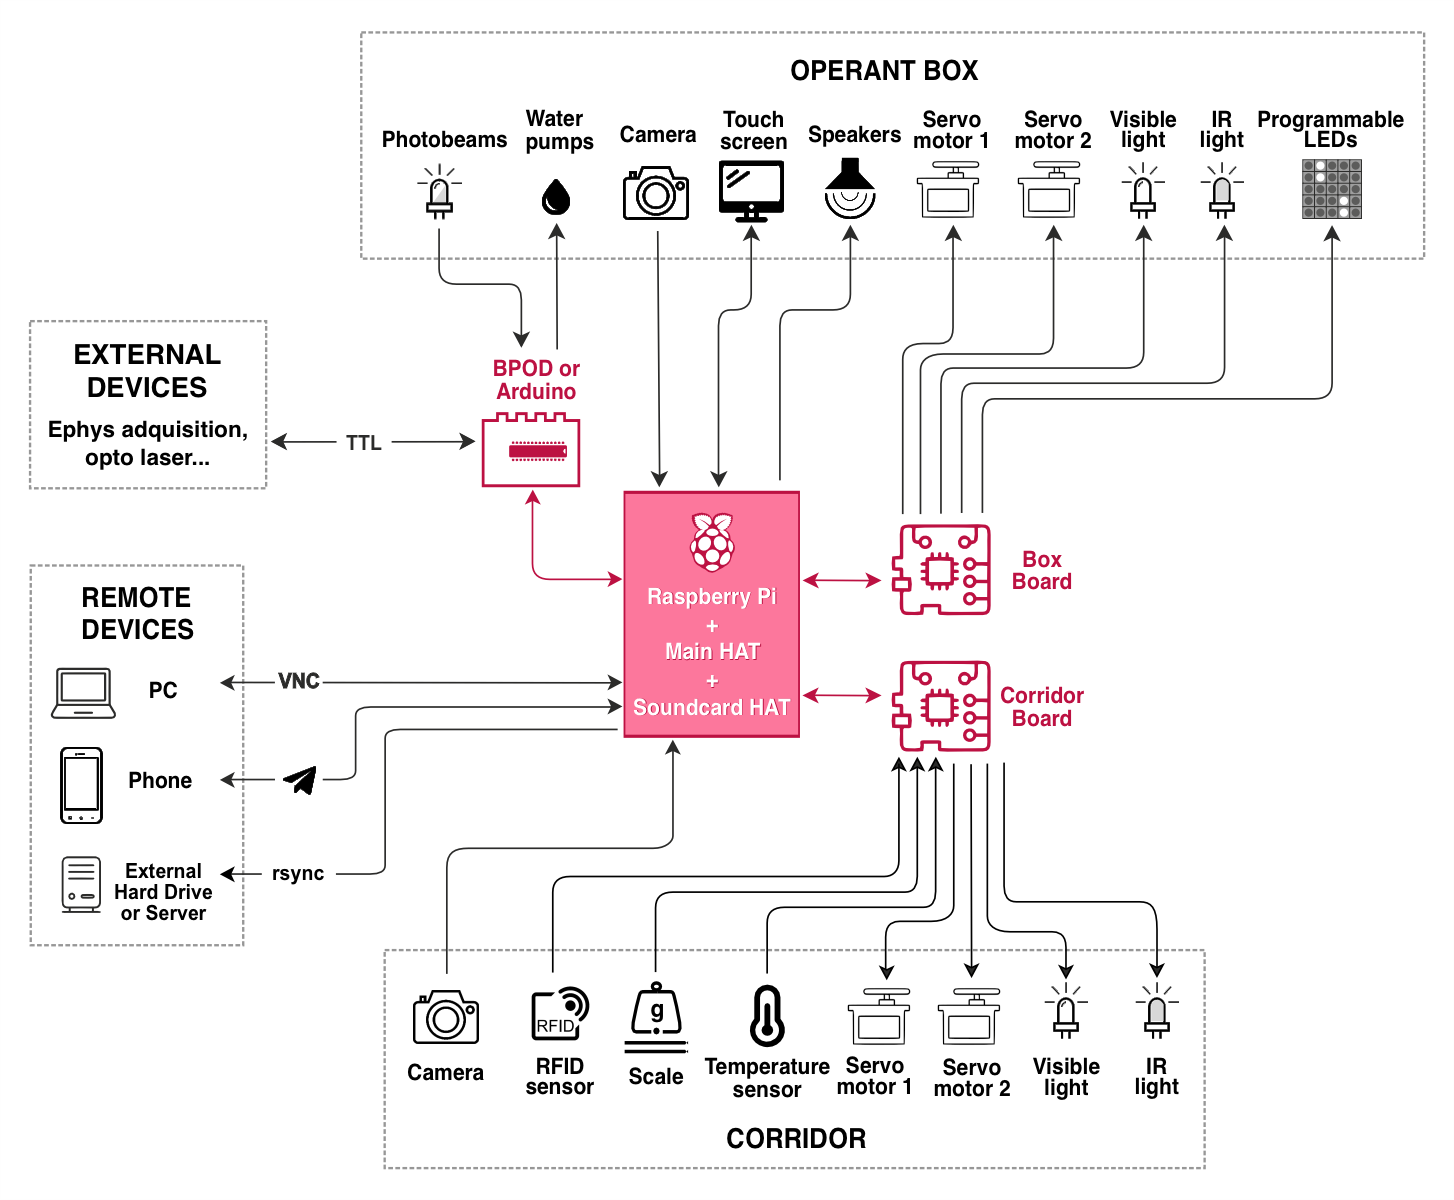
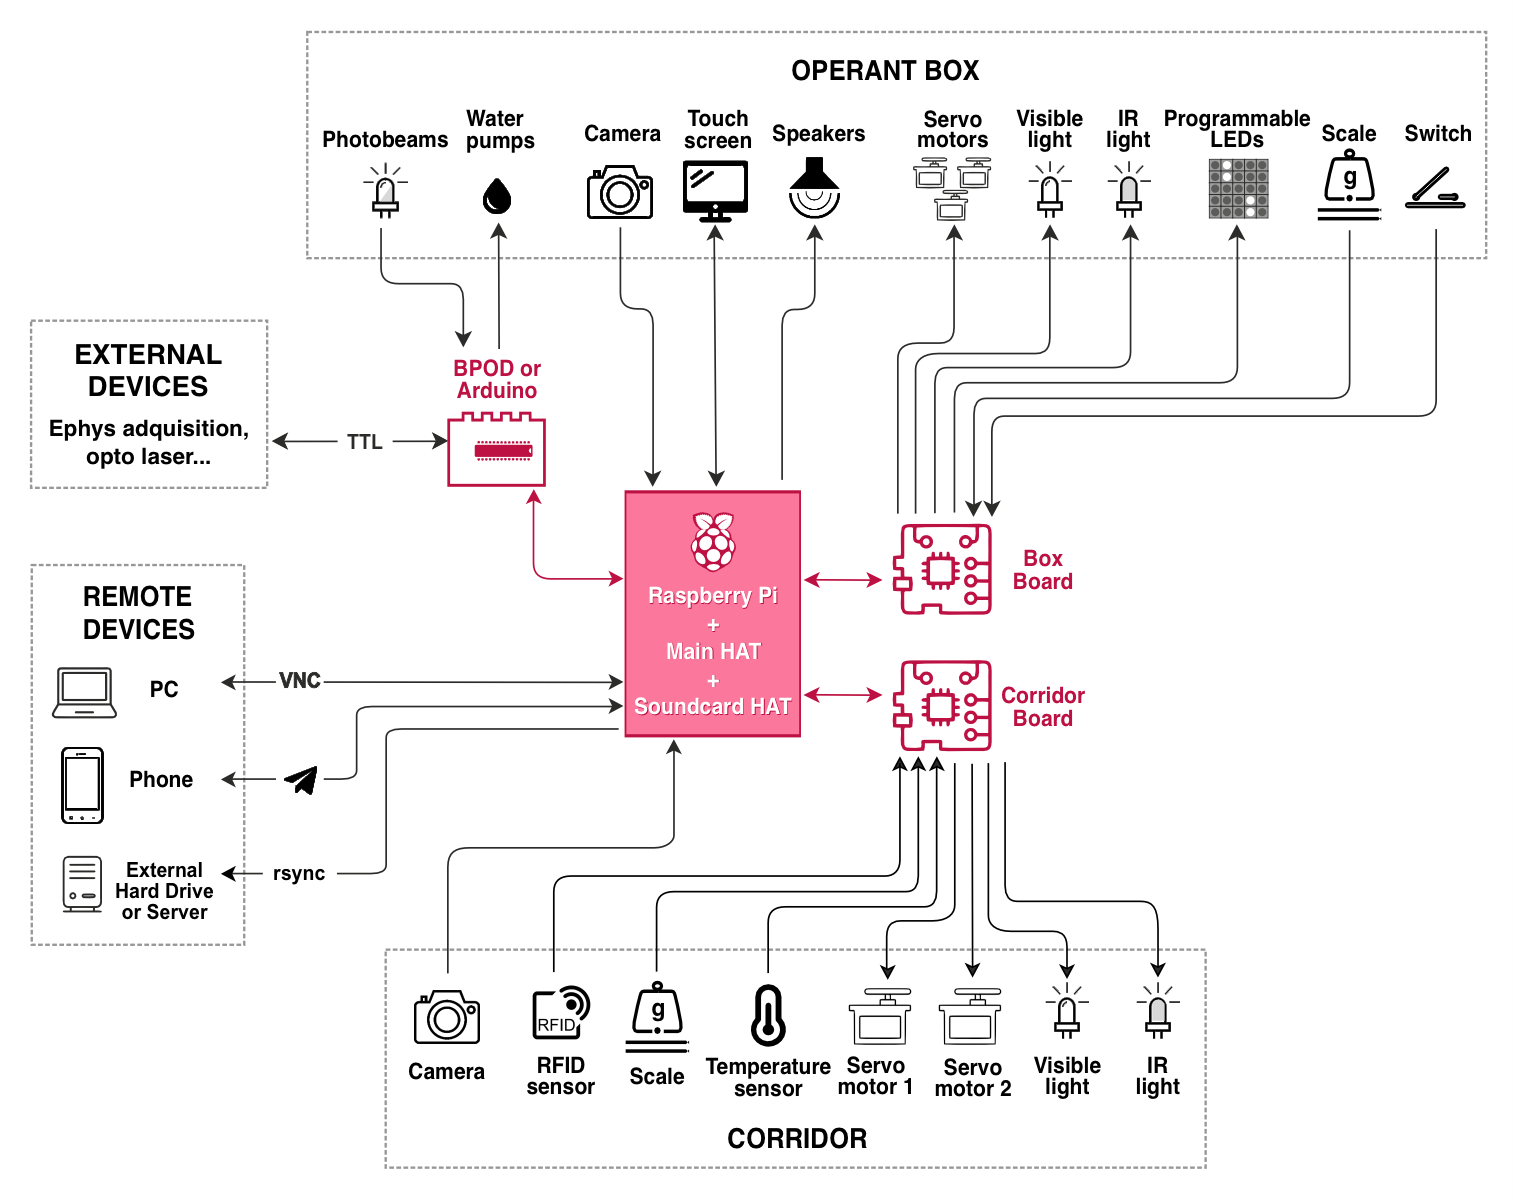
gpio improvement

diff --git a/village/custom_classes/gpio_base.py b/village/custom_classes/gpio_base.py
@@ -5,56 +5,55 @@ from typing import Any
 
 from gpiozero import DigitalInputDevice, DigitalOutputDevice
 
-from village.classes.enums import GpioDirection
 from village.custom_classes.task_base import TaskBase
 from village.scripts.log import log
 from village.settings import settings
 
 
 class GpioBase:
-    """Base class for using GPIO pin 27, either as an input or as an output.
+    """Base class for using two GPIO pins: one input and one output.
 
-    The direction is set by the GPIO27_DIRECTION setting (advanced settings):
+    Both work at the same time, since they are different pins (set by the
+    GPIO_IN and GPIO_OUT settings, in DEVICE ADDRESSES):
 
-    - IN (default): a background thread watches the pin and calls trigger_on
-      when it goes from OFF (low) to ON (high), and trigger_off when it goes
-      from ON to OFF. Override those two methods to react. set_on/set_off do
-      nothing in this mode.
+    - Input (GPIO_IN, default 27): while a task is running the pin is watched
+      and trigger_on is called when it goes from OFF (low) to ON (high), and
+      trigger_off when it goes from ON to OFF. Override those two methods to
+      react. The watching runs only while a task is active (the manager starts
+      it when the task starts and stops it when it ends).
 
-    - OUT: the pin is driven as an output. set_on() puts it HIGH and set_off()
-      puts it LOW; call them from anywhere (a task, a trigger, direct
-      functions, the screen sync...). start/stop do nothing in this mode, and
-      the triggers never fire.
+    - Output (GPIO_OUT, default 26): set_on() drives the pin HIGH and set_off()
+      drives it LOW. Call them from anywhere (a task, a trigger, direct
+      functions, the screen sync...); they work regardless of the input.
 
     You have access to self.task, so any variable or function of the running
-    task can be used. The input watching runs only while a task is active (the
-    manager starts it when the task starts and stops it when it ends).
+    task can be used.
     """
 
     def __init__(self) -> None:
         """Initializes the GpioBase instance (does not open the GPIO yet)."""
         self.name = "Gpio"
         self.task = TaskBase()
-        self.pin = 27  # BCM number of the GPIO pin
-        self.direction: GpioDirection = settings.get("GPIO27_DIRECTION")
+        self.pin_in = int(settings.get("GPIO_IN"))  # BCM number, input
+        self.pin_out = int(settings.get("GPIO_OUT"))  # BCM number, output
         self.error = ""
         self._input: Any = None
         self._output: Any = None
 
     def start(self) -> None:
-        """Starts watching the pin for level changes. Only in IN mode."""
-        if self.direction != GpioDirection.IN or self._input is not None:
+        """Starts watching the input pin for level changes."""
+        if self._input is not None:
             return
         try:
-            self._input = DigitalInputDevice(self.pin)
+            self._input = DigitalInputDevice(self.pin_in)
             self._input.when_activated = self.trigger_on  # OFF -> ON
             self._input.when_deactivated = self.trigger_off  # ON -> OFF
         except Exception:
-            msg = "Could not open GPIO pin " + str(self.pin) + " as input"
+            msg = "Could not open GPIO pin " + str(self.pin_in) + " as input"
             self.error = log.clean_text(traceback.format_exc(), msg)
 
     def stop(self) -> None:
-        """Stops watching the pin and releases it. Only affects IN mode."""
+        """Stops watching the input pin and releases it."""
         if self._input is not None:
             try:
                 self._input.close()
@@ -63,21 +62,19 @@ class GpioBase:
             self._input = None
 
     def set_on(self) -> None:
-        """Drives the pin HIGH. Does nothing unless the pin is set to OUT."""
+        """Drives the output pin HIGH."""
         self._write(True)
 
     def set_off(self) -> None:
-        """Drives the pin LOW. Does nothing unless the pin is set to OUT."""
+        """Drives the output pin LOW."""
         self._write(False)
 
     def _write(self, high: bool) -> None:
-        if self.direction != GpioDirection.OUT:
-            return
         if self._output is None:
             try:
-                self._output = DigitalOutputDevice(self.pin)
+                self._output = DigitalOutputDevice(self.pin_out)
             except Exception:
-                msg = "Could not open GPIO pin " + str(self.pin) + " as output"
+                msg = "Could not open GPIO pin " + str(self.pin_out) + " as output"
                 self.error = log.clean_text(traceback.format_exc(), msg)
                 return
         if high:
@@ -86,9 +83,9 @@ class GpioBase:
             self._output.off()
 
     def trigger_on(self) -> None:
-        """Called when the GPIO goes from OFF to ON (IN mode). Override me."""
+        """Called when the input pin goes from OFF to ON. Override me."""
         pass
 
     def trigger_off(self) -> None:
-        """Called when the GPIO goes from ON to OFF (IN mode). Override me."""
+        """Called when the input pin goes from ON to OFF. Override me."""
         pass

diff --git a/village/gui/settings_layout.py b/village/gui/settings_layout.py
@@ -104,6 +104,31 @@ no_box_board = [
     "CHIP_BOX_ADDRESS",
 ]
 
+# Address groups that must not have repeated values within the group. A value may
+# repeat across groups (a corridor board address may equal a box board one, as
+# they are on different boards / GPIO is unrelated). I2C addresses (str) and PWM
+# indices (int) never collide with each other, so keeping them in one list per
+# board validates each namespace correctly.
+_CORRIDOR_ADDR_KEYS = [
+    "CHIP_CORRIDOR_ADDRESS",
+    "SCALE_ADDRESS",
+    "TEMP_SENSOR_ADDRESS",
+    "MOTOR1_CORRIDOR_INDEX",
+    "MOTOR2_CORRIDOR_INDEX",
+    "MOTOR3_CORRIDOR_INDEX",
+    "VISIBLE_LIGHT_CORRIDOR_INDEX",
+    "IR_LIGHT_CORRIDOR_INDEX",
+]
+_BOX_ADDR_KEYS = [
+    "CHIP_BOX_ADDRESS",
+    "MOTOR1_BOX_INDEX",
+    "MOTOR2_BOX_INDEX",
+    "MOTOR3_BOX_INDEX",
+    "VISIBLE_LIGHT_BOX_INDEX",
+    "IR_LIGHT_BOX_INDEX",
+]
+_GPIO_KEYS = ["GPIO_IN", "GPIO_OUT"]
+
 # Keys whose toggle value affects what is shown within their section
 _CONDITIONAL_KEYS: dict[str, str] = {
     "USE_SOUNDCARD": "SOUND SETTINGS",
@@ -163,6 +188,39 @@ class SettingsLayout(Layout):
             with suppress(Exception):
                 return [possible.index(str(v)) for v in vals]
         return settings.get_indices(key)
+
+    def _duplicate_address_error(self) -> str:
+        """Returns an error message if an address group has repeated values.
+
+        Corridor board addresses must be unique among themselves, box board
+        addresses among themselves, and GPIO_IN must differ from GPIO_OUT. A
+        value may repeat across groups. Returns "" if everything is fine.
+        """
+        groups = [
+            ("Corridor board", _CORRIDOR_ADDR_KEYS, manager.use_of_corridor),
+            ("Box board", _BOX_ADDR_KEYS, manager.use_of_box_chip),
+            ("GPIO", _GPIO_KEYS, True),
+        ]
+        for label, keys, enabled in groups:
+            if not enabled:
+                continue
+            seen: dict[Any, str] = {}
+            for key in keys:
+                raw = self._get(key)
+                try:
+                    if settings.get_type(key) is int:
+                        value: Any = int(str(raw).strip())
+                    else:
+                        value = str(raw).strip().lower()
+                except Exception:
+                    value = str(raw).strip().lower()
+                if value in seen:
+                    return (
+                        f"{label}: {key} and {seen[value]} have the same value "
+                        f"({raw}). Values must be unique within the group."
+                    )
+                seen[value] = key
+        return ""
 
     @property
     def _active_sections(self) -> list[str]:
@@ -526,6 +584,12 @@ class SettingsLayout(Layout):
                         )
                         sub.setProperty("type", name)
                         row += 2
+                    elif s.key == "GPIO_IN":
+                        sub = self.create_and_add_label(
+                            "GPIO", row, C_COL, C_LABEL_W, 2, "black"
+                        )
+                        sub.setProperty("type", name)
+                        row += 2
                     self.create_label_and_value(row, C_COL, s, name, width=C_VAL_OFF)
                     row += 2
 
@@ -629,6 +693,14 @@ class SettingsLayout(Layout):
         # Flush current section's widgets into _pending so save() sees everything
         self._flush_to_pending()
 
+        # Block saving repeated addresses within a board (or GPIO in == out).
+        # Not enforced on exit, so the user is never trapped by a bad value.
+        if not exiting:
+            dup = self._duplicate_address_error()
+            if dup:
+                QMessageBox.warning(self.window, "Repeated addresses", dup)
+                return
+
         sync_directory = self.create_sync_directory()
         self.save_button.setDisabled(True)
         manager.changing_settings = False
@@ -694,7 +766,8 @@ class SettingsLayout(Layout):
             "NUMBER_OF_LEDS",
             "SPI_SPEED_KHZ",
             "PIXEL_TYPE",
-            "GPIO27_DIRECTION",
+            "GPIO_IN",
+            "GPIO_OUT",
         ]
 
         # Keys in the current section's tracking lists (will be processed with

diff --git a/village/settings.py b/village/settings.py
@@ -9,7 +9,6 @@ from village.classes.settings_class import (
     ControllerEnum,
     Cycle,
     CycleDay,
-    GpioDirection,
     Info,
     OldVersion,
     PixelType,
@@ -326,6 +325,21 @@ additional functions, such as raising or lowering a water bottle in the home cag
         int,
         "The index of the infrared light of the box.",
     ),
+    Setting(
+        "GPIO_IN",
+        27,
+        int,
+        """BCM number of the GPIO pin used as input by GpioBase: it reads an
+external signal and fires the triggers (trigger_on / trigger_off).""",
+    ),
+    Setting(
+        "GPIO_OUT",
+        26,
+        int,
+        """BCM number of the GPIO pin used as output by GpioBase: gpio.set_on() /
+gpio.set_off() drive it. It can be used at the same time as GPIO_IN, since they are
+different pins.""",
+    ),
 ]
 
 
@@ -536,15 +550,6 @@ threshold are discarded as they likely reflect movement artifacts
 ]
 
 extra_settings = [
-    Setting(
-        "GPIO27_DIRECTION",
-        "IN",
-        GpioDirection,
-        """Direction of GPIO pin 27. IN: it reads an external signal and fires
-the GpioBase triggers (trigger_on / trigger_off). OUT: it sends a signal --
-gpio.set_on() / gpio.set_off() drive the pin (also used for the screen sync).
-Only one direction at a time; changing it requires a restart.""",
-    ),
     Setting(
         "UPDATE_TIME_TABLE",
         1,

diff --git a/village/devices/screen.py b/village/devices/screen.py
@@ -202,8 +202,8 @@ class Screen(QOpenGLWidget):
         self._start_timing: float = 0.0
         self._swap_connected: bool = False
 
-        # injected by manager.run_task(); NullGpio (no-op) until then. Drives the
-        # sync pin only if GPIO27_DIRECTION is OUT (see GpioBase).
+        # injected by manager.run_task(); NullGpio (no-op) until then. set_on/
+        # set_off drive the GPIO_OUT pin for the sync pulse (see GpioBase).
         self.gpio: GpioBase | NullGpio = NullGpio()
 
         self._video_thread: Optional[QThread] = None

diff --git a/village/classes/settings_class.py b/village/classes/settings_class.py
@@ -10,7 +10,6 @@ from village.classes.enums import (
     ControllerEnum,
     Cycle,
     CycleDay,
-    GpioDirection,
     Info,
     OldVersion,
     PixelType,
@@ -250,8 +249,6 @@ class Settings:
                 return Cycle(str_value)
             elif type == CycleDay:
                 return CycleDay(str_value)
-            elif type == GpioDirection:
-                return GpioDirection(str_value)
             elif type == ScreenActive:
                 return ScreenActive(str_value)
             elif type == AreaActive:

diff --git a/village/classes/enums.py b/village/classes/enums.py
@@ -208,11 +208,6 @@ class CycleDay(SuperEnum):
     NIGHT = "NIGHT"
 
 
-class GpioDirection(SuperEnum):
-    IN = "IN"
-    OUT = "OUT"
-
-
 class Actions(SuperEnum):
     CORRIDOR = "CORRIDOR"
     BOX = "BOX"

diff --git a/docs/source/overview/system.md b/docs/source/overview/system.md
@@ -33,7 +33,7 @@ playback based on events or animal coordinates, and managing LEDs and servo moto
 
 *   **The Behavioral Controller (Bpod/Arduino)** can be used for time-critical or high-precision events, such as photogate detection, delivering water rewards at a behavioral port, or sending rapid TTL signals to external hardware like optogenetic lasers.
 
-A custom main HAT is mounted onto the Raspberry Pi 5 to handle power and data distribution. It receives a 5V power supply and utilizes two Ethernet ports to safely bridge both power and data to two specialized satellite boards.
+A custom main HAT is mounted onto the Raspberry Pi 5 to handle power and data distribution. It receives a 5V power supply and connects to two specialized satellite boards using Ethernet cables for data and separate jack-connector cables for power.
 
 ---
 
@@ -47,7 +47,7 @@ Controls the following peripherals installed in the corridor:
   <li><strong>RFID Reader:</strong> Used in tandem with the video camera to reliably identify individual animals.</li>
   <li><strong>Weighing Scale:</strong> Features an integrated load cell within the corridor to automatically weigh animals as they return to their home cages.</li>
   <li><strong>Visible &amp; Infrared (IR) Lighting:</strong> Manages a 12:12h day/night cycle to safeguard animal welfare while providing IR night-vision for the cameras during dark phases.</li>
-<li><strong>3 Servo Motors:</strong> Two control the corridor doors, providing automated access to the operant box. A third is available for custom use in the home cages (for example, blocking or releasing access to a water bottle).</li>
+  <li><strong>2 Servo Motors:</strong> To control the corridor doors, providing automated access to the operant box. Two additional connectors on the board allow up to two more servo motors to be added &mdash; for example, to raise or lower a water bottle in the home cage.</li>
   <li><strong>Integrated Ambient Temperature Sensor:</strong> Continuously monitors the corridor environment.</li>
 </ul>
 </td>
@@ -67,10 +67,12 @@ Controls the following peripherals installed in the corridor:
 <td style="width:70%; vertical-align:top; padding-right:2em; border:none;">
 Features optional connectors for the user to utilize as needed:
 <ul>
-  <li><strong>5 Servo Motor Connectors:</strong> For managing mechanisms inside the box.</li>
+  <li><strong>7 Servo Motor Connectors:</strong> For managing mechanisms inside the box.</li>
   <li><strong>Internal Visible &amp; Infrared (IR) Lighting Connectors:</strong> To provide illumination inside the box.</li>
   <li><strong>Addressable/Programmable LED Connector:</strong> To connect programmable LED strips or matrices, specifically dedicated to delivering precise visual stimuli during tasks.</li>
-  <li><strong>Integrated Sound Amplifier:</strong> Standard passive speakers cannot be driven directly from the Raspberry Pi DAC RCA output. For convenience, the system features a built-in sound amplifier with a flat frequency response; this allows researchers to route the DAC's RCA output directly into the box board and connect passive 4 to 8 Ohm speakers directly to it.</li>
+  <li><strong>Load Cell Connector:</strong> Allows a load cell or force sensor to be installed inside the operant box.</li>
+  <li><strong>Switch Connector:</strong> Allows a mechanical switch to be connected: it sends an ON message when the switch is activated and an OFF message when it is released.</li>
+
 
 </ul>
 </td>

diff --git a/docs/source/main/welcome.md b/docs/source/main/welcome.md
@@ -38,7 +38,7 @@
 <img src="_static/raspberry_hat.png" style="width: 100%;" alt="Raspberry Pi HAT">
 </td>
 <td style="border: none; vertical-align: middle;">
-<p>The system is managed by a <a href="https://www.raspberrypi.com">Raspberry Pi</a>, selected for its reliability, low power consumption, and efficiency. This core unit is equipped with a custom Plug-and-Play HAT (Hardware Attached on Top), which seamlessly connects all sensors and actuators within the corridor.</p>
+<p>The system is managed by a <a href="https://www.raspberrypi.com">Raspberry Pi</a>, selected for its reliability, low power consumption, and efficiency. This core unit is equipped with a custom Plug-and-Play HAT (Hardware Attached on Top), which connects a set of custom PCBs distributing power and signals to the sensors and actuators throughout the system.</p>
 </td>
 </tr>
 </table>
